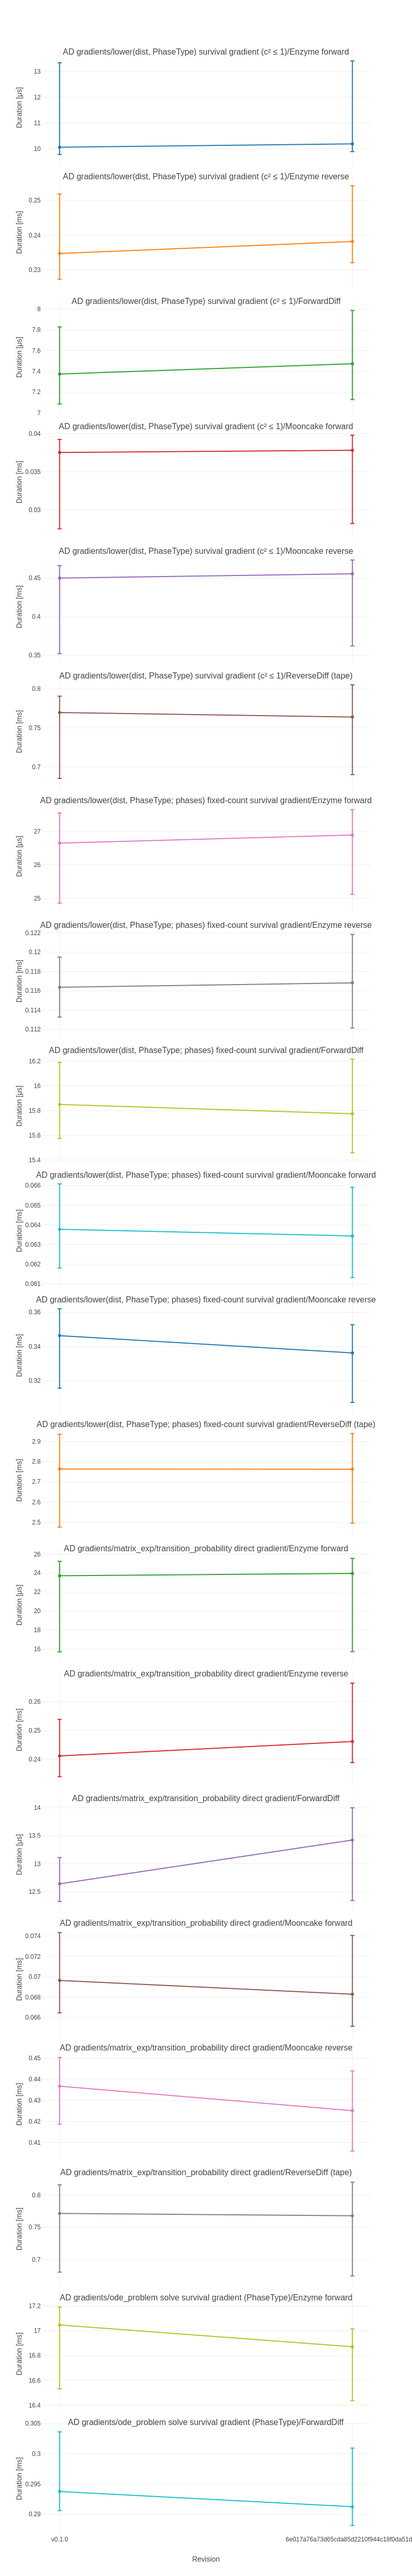
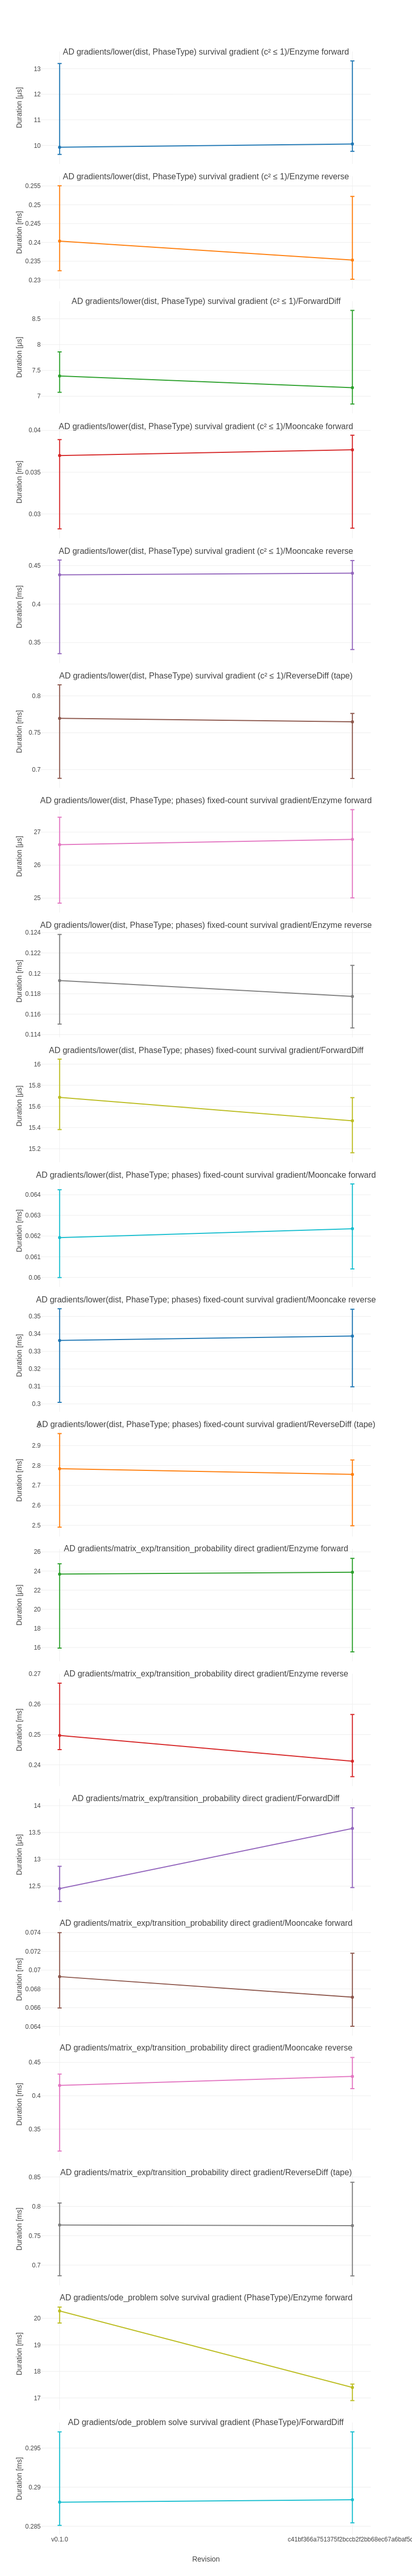
Deploying to benchmarks from @ EpiAware/LoweredDistributions.jl@c41bf366a751375f2bccb2f2bb68ec67a6baf5db 🚀

diff --git a/history/table.md b/history/table.md
@@ -1,111 +1,111 @@
-|                                                                                                   | v0.1.0             | 6e017a76a73d65...  | v0.1.0 / 6e017a76a73d65... |
+|                                                                                                   | v0.1.0             | c41bf366a75137...  | v0.1.0 / c41bf366a75137... |
 |:--------------------------------------------------------------------------------------------------|:------------------:|:------------------:|:--------------------------:|
-| AD gradients/ctmc(specs...) builder + transition_probability gradient/ForwardDiff                 | 21.8 ± 7.3 μs      | 21.6 ± 7.3 μs      | 1.01 ± 0.48                |
-| AD gradients/ctmc(specs...) builder + transition_probability gradient/Mooncake forward            | 0.246 ± 0.02 ms    | 0.24 ± 0.023 ms    | 1.03 ± 0.13                |
-| AD gradients/ctmc(specs...) builder + transition_probability gradient/Mooncake reverse            | 1.32 ± 0.043 ms    | 1.28 ± 0.052 ms    | 1.03 ± 0.054               |
-| AD gradients/ctmc(specs...) builder + transition_probability gradient/ReverseDiff (tape)          | 0.79 ± 0.11 ms     | 0.782 ± 0.13 ms    | 1.01 ± 0.22                |
-| AD gradients/lower(composer) joint-CTMC transition gradient/Enzyme forward                        | 0.0943 ± 0.0065 ms | 0.0954 ± 0.0065 ms | 0.988 ± 0.096              |
-| AD gradients/lower(composer) joint-CTMC transition gradient/Enzyme reverse                        | 0.44 ± 0.031 ms    | 0.443 ± 0.034 ms   | 0.993 ± 0.1                |
-| AD gradients/lower(composer) joint-CTMC transition gradient/ForwardDiff                           | 0.0418 ± 0.0038 ms | 0.0426 ± 0.0035 ms | 0.981 ± 0.12               |
-| AD gradients/lower(composer) joint-CTMC transition gradient/Mooncake forward                      | 0.199 ± 0.015 ms   | 0.213 ± 0.018 ms   | 0.938 ± 0.11               |
-| AD gradients/lower(composer) joint-CTMC transition gradient/Mooncake reverse                      | 2.03 ± 0.2 ms      | 2.05 ± 0.18 ms     | 0.988 ± 0.13               |
-| AD gradients/lower(composer) joint-CTMC transition gradient/ReverseDiff (tape)                    | 2.68 ± 0.4 ms      | 2.65 ± 0.44 ms     | 1.01 ± 0.22                |
-| AD gradients/lower(composer) scalar-composer survival gradient/Enzyme forward                     | 0.0466 ± 0.0058 ms | 0.0436 ± 0.0052 ms | 1.07 ± 0.19                |
-| AD gradients/lower(composer) scalar-composer survival gradient/Enzyme reverse                     | 0.549 ± 0.036 ms   | 0.563 ± 0.039 ms   | 0.974 ± 0.093              |
-| AD gradients/lower(composer) scalar-composer survival gradient/ForwardDiff                        | 19.2 ± 4.5 μs      | 18.6 ± 4.8 μs      | 1.03 ± 0.36                |
-| AD gradients/lower(composer) scalar-composer survival gradient/Mooncake forward                   | 0.113 ± 0.018 ms   | 0.117 ± 0.021 ms   | 0.965 ± 0.23               |
-| AD gradients/lower(composer) scalar-composer survival gradient/Mooncake reverse                   | 1.66 ± 0.097 ms    | 1.67 ± 0.07 ms     | 0.991 ± 0.071              |
-| AD gradients/lower(composer) scalar-composer survival gradient/ReverseDiff (tape)                 | 0.822 ± 0.15 ms    | 0.81 ± 0.14 ms     | 1.02 ± 0.25                |
-| AD gradients/lower(dist) adaptive Erlang survival gradient (integer shape)/Enzyme forward         | 10.2 ± 3.6 μs      | 10.2 ± 3.5 μs      | 1 ± 0.49                   |
-| AD gradients/lower(dist) adaptive Erlang survival gradient (integer shape)/Enzyme reverse         | 0.253 ± 0.024 ms   | 0.261 ± 0.027 ms   | 0.971 ± 0.14               |
-| AD gradients/lower(dist) adaptive Erlang survival gradient (integer shape)/ForwardDiff            | 7.59 ± 0.8 μs      | 7.61 ± 0.76 μs     | 0.999 ± 0.14               |
-| AD gradients/lower(dist) adaptive Erlang survival gradient (integer shape)/Mooncake forward       | 0.0391 ± 0.012 ms  | 0.0389 ± 0.012 ms  | 1.01 ± 0.44                |
-| AD gradients/lower(dist) adaptive Erlang survival gradient (integer shape)/Mooncake reverse       | 0.472 ± 0.12 ms    | 0.462 ± 0.12 ms    | 1.02 ± 0.37                |
-| AD gradients/lower(dist) adaptive Erlang survival gradient (integer shape)/ReverseDiff (tape)     | 0.772 ± 0.12 ms    | 0.767 ± 0.13 ms    | 1.01 ± 0.22                |
-| AD gradients/lower(dist) adaptive Erlang survival gradient (non-integer shape)/Enzyme forward     | 9.44 ± 1.7 μs      | 10 ± 3.9 μs        | 0.94 ± 0.4                 |
-| AD gradients/lower(dist) adaptive Erlang survival gradient (non-integer shape)/Enzyme reverse     | 0.239 ± 0.024 ms   | 0.244 ± 0.025 ms   | 0.979 ± 0.14               |
-| AD gradients/lower(dist) adaptive Erlang survival gradient (non-integer shape)/ForwardDiff        | 4.94 ± 0.96 μs     | 4.93 ± 1.1 μs      | 1 ± 0.29                   |
-| AD gradients/lower(dist) adaptive Erlang survival gradient (non-integer shape)/Mooncake forward   | 25.4 ± 2.2 μs      | 25.9 ± 2.7 μs      | 0.982 ± 0.13               |
-| AD gradients/lower(dist) adaptive Erlang survival gradient (non-integer shape)/Mooncake reverse   | 0.347 ± 0.03 ms    | 0.337 ± 0.032 ms   | 1.03 ± 0.13                |
-| AD gradients/lower(dist) adaptive Erlang survival gradient (non-integer shape)/ReverseDiff (tape) | 0.294 ± 0.046 ms   | 0.294 ± 0.048 ms   | 1 ± 0.23                   |
-| AD gradients/lower(dist) adaptive-dispatch survival gradient/Enzyme forward                       | 9.58 ± 1.4 μs      | 9.66 ± 1.6 μs      | 0.992 ± 0.22               |
-| AD gradients/lower(dist) adaptive-dispatch survival gradient/Enzyme reverse                       | 0.234 ± 0.025 ms   | 0.24 ± 0.021 ms    | 0.976 ± 0.13               |
-| AD gradients/lower(dist) adaptive-dispatch survival gradient/ForwardDiff                          | 5.15 ± 0.79 μs     | 5.07 ± 0.9 μs      | 1.02 ± 0.24                |
-| AD gradients/lower(dist) adaptive-dispatch survival gradient/Mooncake forward                     | 26 ± 4.5 μs        | 26.7 ± 3.7 μs      | 0.975 ± 0.22               |
-| AD gradients/lower(dist) adaptive-dispatch survival gradient/Mooncake reverse                     | 0.314 ± 0.031 ms   | 0.305 ± 0.037 ms   | 1.03 ± 0.16                |
-| AD gradients/lower(dist) adaptive-dispatch survival gradient/ReverseDiff (tape)                   | 0.335 ± 0.046 ms   | 0.336 ± 0.048 ms   | 0.997 ± 0.2                |
-| AD gradients/lower(dist, PhaseType) survival gradient (c² > 1)/Enzyme forward                     | 9.64 ± 1.5 μs      | 9.54 ± 0.84 μs     | 1.01 ± 0.18                |
-| AD gradients/lower(dist, PhaseType) survival gradient (c² > 1)/Enzyme reverse                     | 0.235 ± 0.019 ms   | 0.242 ± 0.021 ms   | 0.971 ± 0.11               |
-| AD gradients/lower(dist, PhaseType) survival gradient (c² > 1)/ForwardDiff                        | 5.07 ± 0.96 μs     | 5.13 ± 1.1 μs      | 0.989 ± 0.29               |
-| AD gradients/lower(dist, PhaseType) survival gradient (c² > 1)/Mooncake forward                   | 27 ± 3.7 μs        | 26.9 ± 3.2 μs      | 1 ± 0.18                   |
-| AD gradients/lower(dist, PhaseType) survival gradient (c² > 1)/Mooncake reverse                   | 0.334 ± 0.025 ms   | 0.325 ± 0.026 ms   | 1.03 ± 0.11                |
-| AD gradients/lower(dist, PhaseType) survival gradient (c² > 1)/ReverseDiff (tape)                 | 0.348 ± 0.046 ms   | 0.345 ± 0.05 ms    | 1.01 ± 0.2                 |
-| AD gradients/lower(dist, PhaseType) survival gradient (c² ≤ 1)/Enzyme forward                     | 10.1 ± 3.6 μs      | 10.2 ± 3.5 μs      | 0.987 ± 0.49               |
-| AD gradients/lower(dist, PhaseType) survival gradient (c² ≤ 1)/Enzyme reverse                     | 0.235 ± 0.025 ms   | 0.238 ± 0.022 ms   | 0.985 ± 0.14               |
-| AD gradients/lower(dist, PhaseType) survival gradient (c² ≤ 1)/ForwardDiff                        | 7.37 ± 0.74 μs     | 7.47 ± 0.86 μs     | 0.987 ± 0.15               |
-| AD gradients/lower(dist, PhaseType) survival gradient (c² ≤ 1)/Mooncake forward                   | 0.0375 ± 0.012 ms  | 0.0378 ± 0.012 ms  | 0.992 ± 0.43               |
-| AD gradients/lower(dist, PhaseType) survival gradient (c² ≤ 1)/Mooncake reverse                   | 0.45 ± 0.11 ms     | 0.456 ± 0.11 ms    | 0.988 ± 0.35               |
-| AD gradients/lower(dist, PhaseType) survival gradient (c² ≤ 1)/ReverseDiff (tape)                 | 0.77 ± 0.11 ms     | 0.764 ± 0.11 ms    | 1.01 ± 0.2                 |
-| AD gradients/lower(dist, PhaseType; phases) fixed-count survival gradient/Enzyme forward          | 26.6 ± 2.7 μs      | 26.9 ± 2.5 μs      | 0.991 ± 0.14               |
-| AD gradients/lower(dist, PhaseType; phases) fixed-count survival gradient/Enzyme reverse          | 0.116 ± 0.0062 ms  | 0.117 ± 0.0097 ms  | 0.996 ± 0.098              |
-| AD gradients/lower(dist, PhaseType; phases) fixed-count survival gradient/ForwardDiff             | 15.8 ± 0.61 μs     | 15.8 ± 0.76 μs     | 1 ± 0.062                  |
-| AD gradients/lower(dist, PhaseType; phases) fixed-count survival gradient/Mooncake forward        | 0.0638 ± 0.0043 ms | 0.0634 ± 0.0046 ms | 1.01 ± 0.099               |
-| AD gradients/lower(dist, PhaseType; phases) fixed-count survival gradient/Mooncake reverse        | 0.346 ± 0.046 ms   | 0.336 ± 0.045 ms   | 1.03 ± 0.2                 |
-| AD gradients/lower(dist, PhaseType; phases) fixed-count survival gradient/ReverseDiff (tape)      | 2.76 ± 0.46 ms     | 2.76 ± 0.45 ms     | 1 ± 0.23                   |
-| AD gradients/matrix_exp/transition_probability direct gradient/Enzyme forward                     | 23.7 ± 9.5 μs      | 24 ± 9.8 μs        | 0.99 ± 0.57                |
-| AD gradients/matrix_exp/transition_probability direct gradient/Enzyme reverse                     | 0.241 ± 0.02 ms    | 0.246 ± 0.028 ms   | 0.98 ± 0.14                |
-| AD gradients/matrix_exp/transition_probability direct gradient/ForwardDiff                        | 12.6 ± 0.79 μs     | 13.4 ± 1.7 μs      | 0.942 ± 0.13               |
-| AD gradients/matrix_exp/transition_probability direct gradient/Mooncake forward                   | 0.0696 ± 0.0079 ms | 0.0683 ± 0.0089 ms | 1.02 ± 0.18                |
-| AD gradients/matrix_exp/transition_probability direct gradient/Mooncake reverse                   | 0.437 ± 0.032 ms   | 0.425 ± 0.038 ms   | 1.03 ± 0.12                |
-| AD gradients/matrix_exp/transition_probability direct gradient/ReverseDiff (tape)                 | 0.772 ± 0.14 ms    | 0.768 ± 0.15 ms    | 1 ± 0.26                   |
-| AD gradients/ode_problem solve survival gradient (PhaseType)/Enzyme forward                       | 17 ± 0.66 ms       | 16.9 ± 0.58 ms     | 1.01 ± 0.052               |
-| AD gradients/ode_problem solve survival gradient (PhaseType)/ForwardDiff                          | 0.294 ± 0.013 ms   | 0.291 ± 0.013 ms   | 1.01 ± 0.063               |
-| AD gradients/ode_problem solve survival gradient (PhaseType, direct)/Enzyme forward               | 17.1 ± 0.68 ms     | 16.9 ± 0.62 ms     | 1.01 ± 0.055               |
-| AD gradients/ode_problem solve survival gradient (PhaseType, direct)/ForwardDiff                  | 0.292 ± 0.013 ms   | 0.291 ± 0.013 ms   | 1 ± 0.063                  |
-| AD gradients/phase_type hyperexponential (α, S) gradient/Enzyme forward                           | 6.19 ± 0.064 μs    | 6.26 ± 0.082 μs    | 0.988 ± 0.016              |
-| AD gradients/phase_type hyperexponential (α, S) gradient/Enzyme reverse                           | 1.34 ± 0.037 μs    | 1.3 ± 0.037 μs     | 1.03 ± 0.041               |
-| AD gradients/phase_type hyperexponential (α, S) gradient/ForwardDiff                              | 0.509 ± 0.062 μs   | 0.487 ± 0.053 μs   | 1.05 ± 0.17                |
-| AD gradients/phase_type hyperexponential (α, S) gradient/Mooncake forward                         | 11.3 ± 0.45 μs     | 11.4 ± 0.51 μs     | 0.989 ± 0.059              |
-| AD gradients/phase_type hyperexponential (α, S) gradient/Mooncake reverse                         | 15.3 ± 0.56 μs     | 15.3 ± 0.72 μs     | 0.999 ± 0.06               |
-| AD gradients/phase_type hyperexponential (α, S) gradient/ReverseDiff (tape)                       | 7.96 ± 0.16 μs     | 8.01 ± 0.22 μs     | 0.994 ± 0.034              |
-| AD gradients/update(CTMC, rates) transition gradient/Enzyme forward                               | 21.9 ± 8.7 μs      | 22.3 ± 8.9 μs      | 0.982 ± 0.56               |
-| AD gradients/update(CTMC, rates) transition gradient/Enzyme reverse                               | 0.242 ± 0.021 ms   | 0.249 ± 0.027 ms   | 0.97 ± 0.14                |
-| AD gradients/update(CTMC, rates) transition gradient/ForwardDiff                                  | 11.9 ± 1.2 μs      | 12.5 ± 1.3 μs      | 0.949 ± 0.14               |
-| AD gradients/update(CTMC, rates) transition gradient/Mooncake forward                             | 0.0684 ± 0.006 ms  | 0.0694 ± 0.0069 ms | 0.986 ± 0.13               |
-| AD gradients/update(CTMC, rates) transition gradient/Mooncake reverse                             | 0.471 ± 0.039 ms   | 0.462 ± 0.042 ms   | 1.02 ± 0.13                |
-| AD gradients/update(CTMC, rates) transition gradient/ReverseDiff (tape)                           | 0.712 ± 0.14 ms    | 0.709 ± 0.13 ms    | 1 ± 0.27                   |
-| AD gradients/update(Coxian, rates) survival gradient/Enzyme forward                               | 11.5 ± 1.2 μs      | 11.8 ± 1.8 μs      | 0.976 ± 0.18               |
-| AD gradients/update(Coxian, rates) survival gradient/Enzyme reverse                               | 0.236 ± 0.024 ms   | 0.244 ± 0.024 ms   | 0.969 ± 0.13               |
-| AD gradients/update(Coxian, rates) survival gradient/ForwardDiff                                  | 6.4 ± 1.1 μs       | 6.29 ± 1 μs        | 1.02 ± 0.24                |
-| AD gradients/update(Coxian, rates) survival gradient/Mooncake forward                             | 0.0448 ± 0.012 ms  | 0.0447 ± 0.012 ms  | 1 ± 0.38                   |
-| AD gradients/update(Coxian, rates) survival gradient/Mooncake reverse                             | 0.346 ± 0.031 ms   | 0.329 ± 0.037 ms   | 1.05 ± 0.15                |
-| AD gradients/update(Coxian, rates) survival gradient/ReverseDiff (tape)                           | 0.34 ± 0.047 ms    | 0.336 ± 0.053 ms   | 1.01 ± 0.21                |
-| AD gradients/update(ErlangChain, rates) survival gradient/Enzyme forward                          | 10.9 ± 0.9 μs      | 10.3 ± 0.98 μs     | 1.05 ± 0.13                |
-| AD gradients/update(ErlangChain, rates) survival gradient/Enzyme reverse                          | 0.253 ± 0.024 ms   | 0.26 ± 0.024 ms    | 0.974 ± 0.13               |
-| AD gradients/update(ErlangChain, rates) survival gradient/ForwardDiff                             | 7.92 ± 0.58 μs     | 7.7 ± 0.62 μs      | 1.03 ± 0.11                |
-| AD gradients/update(ErlangChain, rates) survival gradient/Mooncake forward                        | 0.0404 ± 0.012 ms  | 0.0481 ± 0.013 ms  | 0.84 ± 0.34                |
-| AD gradients/update(ErlangChain, rates) survival gradient/Mooncake reverse                        | 0.505 ± 0.039 ms   | 0.487 ± 0.041 ms   | 1.04 ± 0.12                |
-| AD gradients/update(ErlangChain, rates) survival gradient/ReverseDiff (tape)                      | 0.791 ± 0.15 ms    | 0.789 ± 0.14 ms    | 1 ± 0.26                   |
-| AD gradients/update(PhaseType, [α; vec(S)]) survival gradient/Enzyme forward                      | 11.1 ± 1.2 μs      | 11.4 ± 1.5 μs      | 0.969 ± 0.16               |
-| AD gradients/update(PhaseType, [α; vec(S)]) survival gradient/Enzyme reverse                      | 0.233 ± 0.021 ms   | 0.238 ± 0.023 ms   | 0.98 ± 0.13                |
-| AD gradients/update(PhaseType, [α; vec(S)]) survival gradient/ForwardDiff                         | 6.01 ± 0.95 μs     | 6.18 ± 0.92 μs     | 0.973 ± 0.21               |
-| AD gradients/update(PhaseType, [α; vec(S)]) survival gradient/Mooncake forward                    | 0.0386 ± 0.012 ms  | 0.0413 ± 0.012 ms  | 0.935 ± 0.4                |
-| AD gradients/update(PhaseType, [α; vec(S)]) survival gradient/Mooncake reverse                    | 0.331 ± 0.029 ms   | 0.32 ± 0.028 ms    | 1.04 ± 0.13                |
-| AD gradients/update(PhaseType, [α; vec(S)]) survival gradient/ReverseDiff (tape)                  | 0.306 ± 0.047 ms   | 0.303 ± 0.052 ms   | 1.01 ± 0.23                |
-| Bridges/jump_problem (JumpProcesses)                                                              | 1.48 ± 0.1 μs      | 1.39 ± 0.085 μs    | 1.06 ± 0.098               |
-| Bridges/ode_problem (SciMLBase)                                                                   | 0.166 ± 0.0044 ms  | 0.166 ± 0.0046 ms  | 1 ± 0.038                  |
-| Bridges/reaction_system (Catalyst)                                                                | 0.0798 ± 0.0024 ms | 0.125 ± 0.0071 ms  | 0.637 ± 0.041              |
-| Evaluation/ctmc builder + transition_probability                                                  | 4.59 ± 0.89 μs     | 4.83 ± 1 μs        | 0.95 ± 0.27                |
-| Evaluation/phase-type matrix_exp                                                                  | 3.54 ± 2.3 μs      | 4.21 ± 2.4 μs      | 0.84 ± 0.73                |
-| Lowering/canonical(Erlang branch)                                                                 | 0.157 ± 0.035 μs   | 0.163 ± 0.035 μs   | 0.959 ± 0.29               |
-| Lowering/canonical(PhaseType branch)                                                              | 0.125 ± 0.056 μs   | 0.125 ± 0.051 μs   | 1 ± 0.61                   |
-| Lowering/canonical(fixed phases)                                                                  | 0.198 ± 0.027 μs   | 0.198 ± 0.029 μs   | 0.999 ± 0.2                |
-| Lowering/lower(Exponential)                                                                       | 1.53 ± 0.047 μs    | 1.55 ± 0.049 μs    | 0.983 ± 0.043              |
-| Lowering/lower(Gamma, Erlang branch)                                                              | 0.0458 ± 0.025 μs  | 0.0458 ± 0.025 μs  | 1 ± 0.77                   |
-| Lowering/lower(Gamma, PhaseType branch)                                                           | 0.127 ± 0.061 μs   | 0.125 ± 0.054 μs   | 1.01 ± 0.66                |
-| time_to_load                                                                                      | 0.486 ± 0.0024 s   | 0.495 ± 0.0008 s   | 0.982 ± 0.005              |
+| AD gradients/ctmc(specs...) builder + transition_probability gradient/ForwardDiff                 | 21.2 ± 7.1 μs      | 21.8 ± 7.4 μs      | 0.973 ± 0.46               |
+| AD gradients/ctmc(specs...) builder + transition_probability gradient/Mooncake forward            | 0.249 ± 0.021 ms   | 0.256 ± 0.02 ms    | 0.972 ± 0.11               |
+| AD gradients/ctmc(specs...) builder + transition_probability gradient/Mooncake reverse            | 1.27 ± 0.053 ms    | 1.29 ± 0.077 ms    | 0.985 ± 0.072              |
+| AD gradients/ctmc(specs...) builder + transition_probability gradient/ReverseDiff (tape)          | 0.789 ± 0.13 ms    | 0.787 ± 0.15 ms    | 1 ± 0.26                   |
+| AD gradients/lower(composer) joint-CTMC transition gradient/Enzyme forward                        | 0.0918 ± 0.0053 ms | 0.112 ± 0.0061 ms  | 0.823 ± 0.065              |
+| AD gradients/lower(composer) joint-CTMC transition gradient/Enzyme reverse                        | 0.442 ± 0.038 ms   | 0.433 ± 0.027 ms   | 1.02 ± 0.11                |
+| AD gradients/lower(composer) joint-CTMC transition gradient/ForwardDiff                           | 0.0396 ± 0.0035 ms | 0.0389 ± 0.0032 ms | 1.02 ± 0.12                |
+| AD gradients/lower(composer) joint-CTMC transition gradient/Mooncake forward                      | 0.209 ± 0.015 ms   | 0.245 ± 0.022 ms   | 0.853 ± 0.099              |
+| AD gradients/lower(composer) joint-CTMC transition gradient/Mooncake reverse                      | 2.03 ± 0.17 ms     | 2 ± 0.18 ms        | 1.02 ± 0.13                |
+| AD gradients/lower(composer) joint-CTMC transition gradient/ReverseDiff (tape)                    | 2.7 ± 0.45 ms      | 2.65 ± 0.34 ms     | 1.02 ± 0.21                |
+| AD gradients/lower(composer) scalar-composer survival gradient/Enzyme forward                     | 0.0448 ± 0.0058 ms | 0.0424 ± 0.0047 ms | 1.06 ± 0.18                |
+| AD gradients/lower(composer) scalar-composer survival gradient/Enzyme reverse                     | 0.555 ± 0.04 ms    | 0.547 ± 0.037 ms   | 1.01 ± 0.1                 |
+| AD gradients/lower(composer) scalar-composer survival gradient/ForwardDiff                        | 18.1 ± 4.8 μs      | 19 ± 4.9 μs        | 0.955 ± 0.35               |
+| AD gradients/lower(composer) scalar-composer survival gradient/Mooncake forward                   | 0.117 ± 0.018 ms   | 0.116 ± 0.019 ms   | 1 ± 0.22                   |
+| AD gradients/lower(composer) scalar-composer survival gradient/Mooncake reverse                   | 1.66 ± 0.095 ms    | 1.62 ± 0.095 ms    | 1.02 ± 0.084               |
+| AD gradients/lower(composer) scalar-composer survival gradient/ReverseDiff (tape)                 | 0.814 ± 0.12 ms    | 0.811 ± 0.16 ms    | 1 ± 0.24                   |
+| AD gradients/lower(dist) adaptive Erlang survival gradient (integer shape)/Enzyme forward         | 10.2 ± 3.5 μs      | 10.3 ± 3.4 μs      | 0.984 ± 0.47               |
+| AD gradients/lower(dist) adaptive Erlang survival gradient (integer shape)/Enzyme reverse         | 0.256 ± 0.02 ms    | 0.256 ± 0.022 ms   | 1 ± 0.12                   |
+| AD gradients/lower(dist) adaptive Erlang survival gradient (integer shape)/ForwardDiff            | 7.59 ± 0.77 μs     | 7.71 ± 1.6 μs      | 0.985 ± 0.23               |
+| AD gradients/lower(dist) adaptive Erlang survival gradient (integer shape)/Mooncake forward       | 0.0382 ± 0.011 ms  | 0.0377 ± 0.012 ms  | 1.01 ± 0.43                |
+| AD gradients/lower(dist) adaptive Erlang survival gradient (integer shape)/Mooncake reverse       | 0.467 ± 0.12 ms    | 0.465 ± 0.12 ms    | 1.01 ± 0.37                |
+| AD gradients/lower(dist) adaptive Erlang survival gradient (integer shape)/ReverseDiff (tape)     | 0.775 ± 0.13 ms    | 0.766 ± 0.09 ms    | 1.01 ± 0.21                |
+| AD gradients/lower(dist) adaptive Erlang survival gradient (non-integer shape)/Enzyme forward     | 9.74 ± 1.6 μs      | 9.62 ± 1.5 μs      | 1.01 ± 0.22                |
+| AD gradients/lower(dist) adaptive Erlang survival gradient (non-integer shape)/Enzyme reverse     | 0.247 ± 0.023 ms   | 0.242 ± 0.018 ms   | 1.02 ± 0.12                |
+| AD gradients/lower(dist) adaptive Erlang survival gradient (non-integer shape)/ForwardDiff        | 4.81 ± 1.2 μs      | 4.78 ± 1.3 μs      | 1.01 ± 0.38                |
+| AD gradients/lower(dist) adaptive Erlang survival gradient (non-integer shape)/Mooncake forward   | 25.6 ± 3.1 μs      | 25.4 ± 2.2 μs      | 1.01 ± 0.15                |
+| AD gradients/lower(dist) adaptive Erlang survival gradient (non-integer shape)/Mooncake reverse   | 0.336 ± 0.03 ms    | 0.341 ± 0.029 ms   | 0.984 ± 0.12               |
+| AD gradients/lower(dist) adaptive Erlang survival gradient (non-integer shape)/ReverseDiff (tape) | 0.293 ± 0.049 ms   | 0.291 ± 0.041 ms   | 1.01 ± 0.22                |
+| AD gradients/lower(dist) adaptive-dispatch survival gradient/Enzyme forward                       | 9.67 ± 1.5 μs      | 9.54 ± 1.3 μs      | 1.01 ± 0.21                |
+| AD gradients/lower(dist) adaptive-dispatch survival gradient/Enzyme reverse                       | 0.246 ± 0.026 ms   | 0.243 ± 0.021 ms   | 1.01 ± 0.14                |
+| AD gradients/lower(dist) adaptive-dispatch survival gradient/ForwardDiff                          | 5.14 ± 0.88 μs     | 5 ± 1 μs           | 1.03 ± 0.27                |
+| AD gradients/lower(dist) adaptive-dispatch survival gradient/Mooncake forward                     | 25.6 ± 4.9 μs      | 26.3 ± 4.5 μs      | 0.972 ± 0.25               |
+| AD gradients/lower(dist) adaptive-dispatch survival gradient/Mooncake reverse                     | 0.306 ± 0.028 ms   | 0.302 ± 0.032 ms   | 1.01 ± 0.14                |
+| AD gradients/lower(dist) adaptive-dispatch survival gradient/ReverseDiff (tape)                   | 0.327 ± 0.056 ms   | 0.333 ± 0.051 ms   | 0.981 ± 0.23               |
+| AD gradients/lower(dist, PhaseType) survival gradient (c² > 1)/Enzyme forward                     | 9.48 ± 1.3 μs      | 9.66 ± 1.6 μs      | 0.981 ± 0.21               |
+| AD gradients/lower(dist, PhaseType) survival gradient (c² > 1)/Enzyme reverse                     | 0.242 ± 0.023 ms   | 0.238 ± 0.018 ms   | 1.02 ± 0.12                |
+| AD gradients/lower(dist, PhaseType) survival gradient (c² > 1)/ForwardDiff                        | 5.14 ± 0.95 μs     | 5.31 ± 1.3 μs      | 0.969 ± 0.3                |
+| AD gradients/lower(dist, PhaseType) survival gradient (c² > 1)/Mooncake forward                   | 26.7 ± 4 μs        | 27 ± 4.3 μs        | 0.988 ± 0.22               |
+| AD gradients/lower(dist, PhaseType) survival gradient (c² > 1)/Mooncake reverse                   | 0.313 ± 0.028 ms   | 0.327 ± 0.034 ms   | 0.956 ± 0.13               |
+| AD gradients/lower(dist, PhaseType) survival gradient (c² > 1)/ReverseDiff (tape)                 | 0.335 ± 0.054 ms   | 0.345 ± 0.056 ms   | 0.972 ± 0.22               |
+| AD gradients/lower(dist, PhaseType) survival gradient (c² ≤ 1)/Enzyme forward                     | 9.93 ± 3.6 μs      | 10.1 ± 3.5 μs      | 0.987 ± 0.5                |
+| AD gradients/lower(dist, PhaseType) survival gradient (c² ≤ 1)/Enzyme reverse                     | 0.24 ± 0.023 ms    | 0.235 ± 0.022 ms   | 1.02 ± 0.14                |
+| AD gradients/lower(dist, PhaseType) survival gradient (c² ≤ 1)/ForwardDiff                        | 7.39 ± 0.78 μs     | 7.17 ± 1.8 μs      | 1.03 ± 0.28                |
+| AD gradients/lower(dist, PhaseType) survival gradient (c² ≤ 1)/Mooncake forward                   | 0.037 ± 0.011 ms   | 0.0377 ± 0.011 ms  | 0.982 ± 0.41               |
+| AD gradients/lower(dist, PhaseType) survival gradient (c² ≤ 1)/Mooncake reverse                   | 0.438 ± 0.12 ms    | 0.44 ± 0.12 ms     | 0.995 ± 0.38               |
+| AD gradients/lower(dist, PhaseType) survival gradient (c² ≤ 1)/ReverseDiff (tape)                 | 0.769 ± 0.13 ms    | 0.765 ± 0.088 ms   | 1.01 ± 0.2                 |
+| AD gradients/lower(dist, PhaseType; phases) fixed-count survival gradient/Enzyme forward          | 26.6 ± 2.6 μs      | 26.8 ± 2.7 μs      | 0.994 ± 0.14               |
+| AD gradients/lower(dist, PhaseType; phases) fixed-count survival gradient/Enzyme reverse          | 0.119 ± 0.0088 ms  | 0.118 ± 0.0061 ms  | 1.01 ± 0.092               |
+| AD gradients/lower(dist, PhaseType; phases) fixed-count survival gradient/ForwardDiff             | 15.7 ± 0.66 μs     | 15.5 ± 0.52 μs     | 1.01 ± 0.055               |
+| AD gradients/lower(dist, PhaseType; phases) fixed-count survival gradient/Mooncake forward        | 0.0619 ± 0.0042 ms | 0.0624 ± 0.0041 ms | 0.993 ± 0.094              |
+| AD gradients/lower(dist, PhaseType; phases) fixed-count survival gradient/Mooncake reverse        | 0.336 ± 0.054 ms   | 0.339 ± 0.044 ms   | 0.993 ± 0.2                |
+| AD gradients/lower(dist, PhaseType; phases) fixed-count survival gradient/ReverseDiff (tape)      | 2.78 ± 0.47 ms     | 2.76 ± 0.33 ms     | 1.01 ± 0.21                |
+| AD gradients/matrix_exp/transition_probability direct gradient/Enzyme forward                     | 23.7 ± 8.8 μs      | 23.9 ± 9.8 μs      | 0.992 ± 0.55               |
+| AD gradients/matrix_exp/transition_probability direct gradient/Enzyme reverse                     | 0.25 ± 0.022 ms    | 0.241 ± 0.021 ms   | 1.04 ± 0.13                |
+| AD gradients/matrix_exp/transition_probability direct gradient/ForwardDiff                        | 12.5 ± 0.66 μs     | 13.6 ± 1.5 μs      | 0.917 ± 0.11               |
+| AD gradients/matrix_exp/transition_probability direct gradient/Mooncake forward                   | 0.0693 ± 0.008 ms  | 0.0671 ± 0.0078 ms | 1.03 ± 0.17                |
+| AD gradients/matrix_exp/transition_probability direct gradient/Mooncake reverse                   | 0.416 ± 0.12 ms    | 0.429 ± 0.047 ms   | 0.969 ± 0.29               |
+| AD gradients/matrix_exp/transition_probability direct gradient/ReverseDiff (tape)                 | 0.768 ± 0.12 ms    | 0.767 ± 0.16 ms    | 1 ± 0.26                   |
+| AD gradients/ode_problem solve survival gradient (PhaseType)/Enzyme forward                       | 20.3 ± 0.6 ms      | 17.4 ± 0.62 ms     | 1.17 ± 0.054               |
+| AD gradients/ode_problem solve survival gradient (PhaseType)/ForwardDiff                          | 0.288 ± 0.012 ms   | 0.288 ± 0.012 ms   | 0.999 ± 0.058              |
+| AD gradients/ode_problem solve survival gradient (PhaseType, direct)/Enzyme forward               | 20.4 ± 0.64 ms     | 17.5 ± 0.56 ms     | 1.17 ± 0.053               |
+| AD gradients/ode_problem solve survival gradient (PhaseType, direct)/ForwardDiff                  | 0.291 ± 0.012 ms   | 0.289 ± 0.012 ms   | 1.01 ± 0.059               |
+| AD gradients/phase_type hyperexponential (α, S) gradient/Enzyme forward                           | 6.09 ± 0.074 μs    | 6.13 ± 0.082 μs    | 0.994 ± 0.018              |
+| AD gradients/phase_type hyperexponential (α, S) gradient/Enzyme reverse                           | 1.29 ± 0.03 μs     | 1.34 ± 0.041 μs    | 0.964 ± 0.037              |
+| AD gradients/phase_type hyperexponential (α, S) gradient/ForwardDiff                              | 0.488 ± 0.046 μs   | 0.499 ± 0.055 μs   | 0.976 ± 0.14               |
+| AD gradients/phase_type hyperexponential (α, S) gradient/Mooncake forward                         | 11.1 ± 0.46 μs     | 11.4 ± 0.51 μs     | 0.975 ± 0.06               |
+| AD gradients/phase_type hyperexponential (α, S) gradient/Mooncake reverse                         | 15.5 ± 0.62 μs     | 17.5 ± 0.8 μs      | 0.887 ± 0.054              |
+| AD gradients/phase_type hyperexponential (α, S) gradient/ReverseDiff (tape)                       | 8.01 ± 0.22 μs     | 8.17 ± 0.18 μs     | 0.98 ± 0.034               |
+| AD gradients/update(CTMC, rates) transition gradient/Enzyme forward                               | 21.7 ± 7.9 μs      | 22.4 ± 9.1 μs      | 0.968 ± 0.53               |
+| AD gradients/update(CTMC, rates) transition gradient/Enzyme reverse                               | 0.265 ± 0.024 ms   | 0.248 ± 0.026 ms   | 1.07 ± 0.15                |
+| AD gradients/update(CTMC, rates) transition gradient/ForwardDiff                                  | 11.5 ± 0.5 μs      | 12.4 ± 1.2 μs      | 0.934 ± 0.1                |
+| AD gradients/update(CTMC, rates) transition gradient/Mooncake forward                             | 0.0793 ± 0.0072 ms | 0.0718 ± 0.0073 ms | 1.11 ± 0.15                |
+| AD gradients/update(CTMC, rates) transition gradient/Mooncake reverse                             | 0.464 ± 0.031 ms   | 0.473 ± 0.041 ms   | 0.981 ± 0.11               |
+| AD gradients/update(CTMC, rates) transition gradient/ReverseDiff (tape)                           | 0.719 ± 0.11 ms    | 0.713 ± 0.14 ms    | 1.01 ± 0.25                |
+| AD gradients/update(Coxian, rates) survival gradient/Enzyme forward                               | 11.5 ± 1.5 μs      | 11.8 ± 2.1 μs      | 0.975 ± 0.22               |
+| AD gradients/update(Coxian, rates) survival gradient/Enzyme reverse                               | 0.247 ± 0.02 ms    | 0.241 ± 0.022 ms   | 1.03 ± 0.12                |
+| AD gradients/update(Coxian, rates) survival gradient/ForwardDiff                                  | 6.87 ± 0.74 μs     | 7.36 ± 1.3 μs      | 0.934 ± 0.19               |
+| AD gradients/update(Coxian, rates) survival gradient/Mooncake forward                             | 0.0432 ± 0.014 ms  | 0.0443 ± 0.013 ms  | 0.975 ± 0.42               |
+| AD gradients/update(Coxian, rates) survival gradient/Mooncake reverse                             | 0.336 ± 0.031 ms   | 0.344 ± 0.036 ms   | 0.975 ± 0.14               |
+| AD gradients/update(Coxian, rates) survival gradient/ReverseDiff (tape)                           | 0.328 ± 0.057 ms   | 0.337 ± 0.055 ms   | 0.974 ± 0.23               |
+| AD gradients/update(ErlangChain, rates) survival gradient/Enzyme forward                          | 10.2 ± 1.1 μs      | 10.4 ± 0.74 μs     | 0.981 ± 0.13               |
+| AD gradients/update(ErlangChain, rates) survival gradient/Enzyme reverse                          | 0.263 ± 0.021 ms   | 0.257 ± 0.024 ms   | 1.02 ± 0.12                |
+| AD gradients/update(ErlangChain, rates) survival gradient/ForwardDiff                             | 7.42 ± 0.74 μs     | 8.11 ± 0.87 μs     | 0.915 ± 0.13               |
+| AD gradients/update(ErlangChain, rates) survival gradient/Mooncake forward                        | 0.0417 ± 0.012 ms  | 0.0391 ± 0.011 ms  | 1.07 ± 0.43                |
+| AD gradients/update(ErlangChain, rates) survival gradient/Mooncake reverse                        | 0.483 ± 0.036 ms   | 0.489 ± 0.046 ms   | 0.986 ± 0.12               |
+| AD gradients/update(ErlangChain, rates) survival gradient/ReverseDiff (tape)                      | 0.793 ± 0.14 ms    | 0.791 ± 0.16 ms    | 1 ± 0.27                   |
+| AD gradients/update(PhaseType, [α; vec(S)]) survival gradient/Enzyme forward                      | 11.2 ± 1.5 μs      | 11.1 ± 1.4 μs      | 1.01 ± 0.19                |
+| AD gradients/update(PhaseType, [α; vec(S)]) survival gradient/Enzyme reverse                      | 0.238 ± 0.019 ms   | 0.234 ± 0.016 ms   | 1.02 ± 0.11                |
+| AD gradients/update(PhaseType, [α; vec(S)]) survival gradient/ForwardDiff                         | 6.19 ± 0.83 μs     | 6.12 ± 0.95 μs     | 1.01 ± 0.21                |
+| AD gradients/update(PhaseType, [α; vec(S)]) survival gradient/Mooncake forward                    | 0.0421 ± 0.014 ms  | 0.039 ± 0.015 ms   | 1.08 ± 0.54                |
+| AD gradients/update(PhaseType, [α; vec(S)]) survival gradient/Mooncake reverse                    | 0.32 ± 0.029 ms    | 0.323 ± 0.03 ms    | 0.989 ± 0.13               |
+| AD gradients/update(PhaseType, [α; vec(S)]) survival gradient/ReverseDiff (tape)                  | 0.306 ± 0.052 ms   | 0.301 ± 0.042 ms   | 1.02 ± 0.22                |
+| Bridges/jump_problem (JumpProcesses)                                                              | 1.29 ± 0.26 μs     | 1.33 ± 0.28 μs     | 0.971 ± 0.28               |
+| Bridges/ode_problem (SciMLBase)                                                                   | 0.165 ± 0.0045 ms  | 0.165 ± 0.0047 ms  | 1 ± 0.04                   |
+| Bridges/reaction_system (Catalyst)                                                                | 0.082 ± 0.0026 ms  | 0.0891 ± 0.0034 ms | 0.92 ± 0.046               |
+| Evaluation/ctmc builder + transition_probability                                                  | 4.68 ± 0.99 μs     | 4.69 ± 1 μs        | 0.997 ± 0.3                |
+| Evaluation/phase-type matrix_exp                                                                  | 3.93 ± 1.8 μs      | 3.93 ± 2.2 μs      | 0.999 ± 0.73               |
+| Lowering/canonical(Erlang branch)                                                                 | 0.144 ± 0.034 μs   | 0.147 ± 0.043 μs   | 0.983 ± 0.37               |
+| Lowering/canonical(PhaseType branch)                                                              | 0.124 ± 0.05 μs    | 0.126 ± 0.057 μs   | 0.987 ± 0.6                |
+| Lowering/canonical(fixed phases)                                                                  | 0.188 ± 0.023 μs   | 0.191 ± 0.035 μs   | 0.983 ± 0.22               |
+| Lowering/lower(Exponential)                                                                       | 1.52 ± 0.043 μs    | 1.5 ± 0.051 μs     | 1.01 ± 0.045               |
+| Lowering/lower(Gamma, Erlang branch)                                                              | 0.0463 ± 0.026 μs  | 0.0449 ± 0.024 μs  | 1.03 ± 0.79                |
+| Lowering/lower(Gamma, PhaseType branch)                                                           | 0.124 ± 0.054 μs   | 0.133 ± 0.064 μs   | 0.932 ± 0.6                |
+| time_to_load                                                                                      | 0.492 ± 0.0064 s   | 0.49 ± 0.004 s     | 1 ± 0.015                  |
 
-|                                                                                                   | v0.1.0                    | 6e017a76a73d65...         | v0.1.0 / 6e017a76a73d65... |
+|                                                                                                   | v0.1.0                    | c41bf366a75137...         | v0.1.0 / c41bf366a75137... |
 |:--------------------------------------------------------------------------------------------------|:-------------------------:|:-------------------------:|:--------------------------:|
 | AD gradients/ctmc(specs...) builder + transition_probability gradient/ForwardDiff                 | 0.22 k allocs: 26.3 kB    | 0.22 k allocs: 26.3 kB    | 1                          |
 | AD gradients/ctmc(specs...) builder + transition_probability gradient/Mooncake forward            | 2.8 k allocs: 0.123 MB    | 2.8 k allocs: 0.123 MB    | 1                          |

diff --git a/history/README.md b/history/README.md
@@ -1,6 +1,6 @@
 # LoweredDistributions.jl benchmark history
 
-Revisions: v0.1.0,6e017a76a73d65cda85d2210f944c18f0da51d50
+Revisions: v0.1.0,c41bf366a751375f2bccb2f2bb68ec67a6baf5db
 
 See `table.md` for the ratio summary and the PNG
 files in this folder for per-benchmark timelines.
